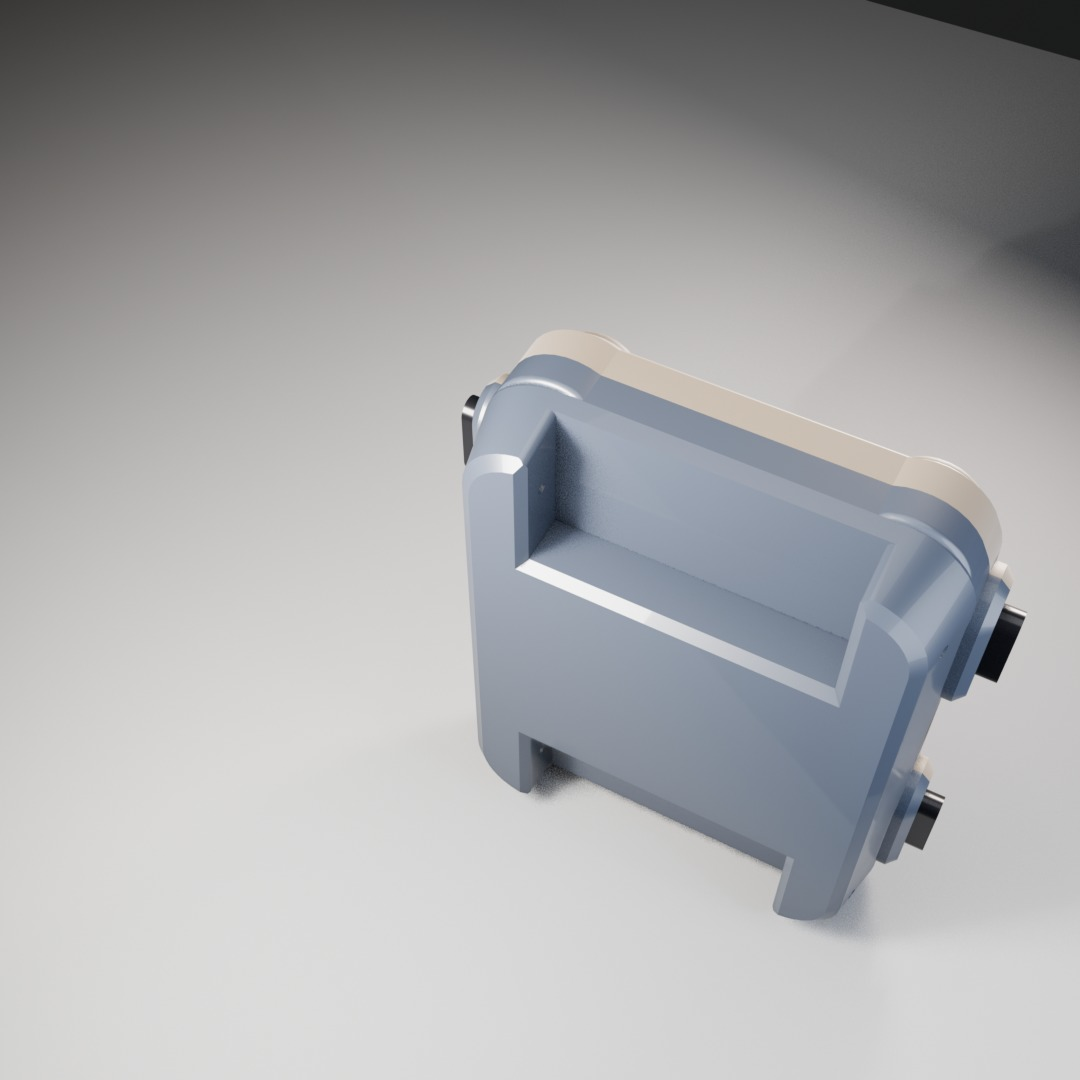
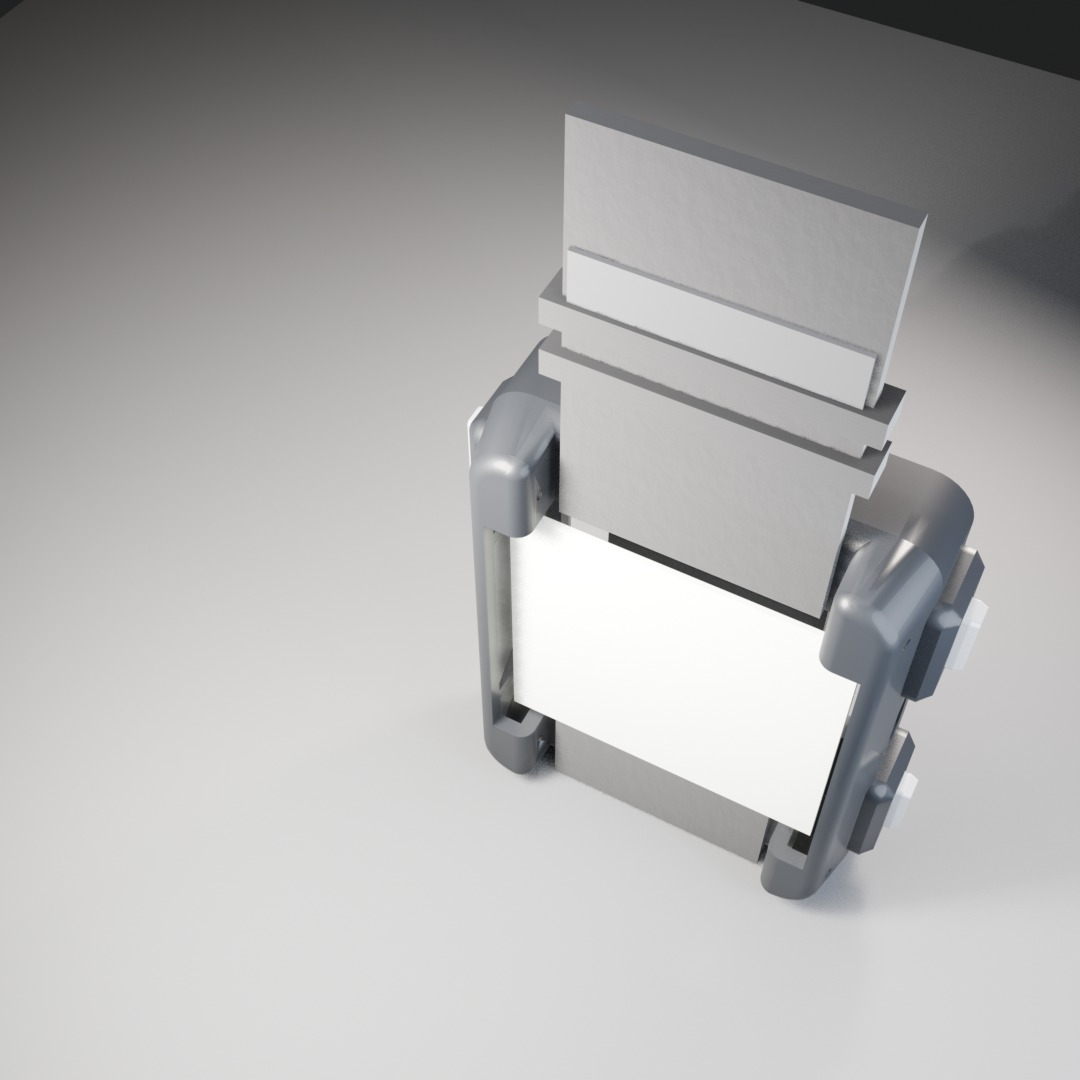
live: Watchy Yatari2 promote + restore gallery
Rams PASS / Steve Yellow: promote #26 _preview-sg-07/08/09/12 to live
featured stills and undo #25 under-construction hide. Ploopy untouched.

diff --git a/index.html b/index.html
@@ -478,9 +478,7 @@
             <h2>Open consumer CAD demos</h2>
             <p class="section-lede">
               Geometry from published open CAD sources — not brand-official photos, not fake logos.
-              <strong>Open headphones</strong> is the live qualified demo. The e-ink watch case slot is
-              <strong>施工中 / under construction</strong> and is not a pass-quality showcase.
-              No endorsement implied.
+              Labels are <strong>Demo · open CAD</strong> with source links. No endorsement implied.
             </p>
           </header>
 
@@ -514,28 +512,34 @@
             <p class="caption">Source + LICENSE in <code>media/demo-ploopy/</code>. No endorsement / logo use.</p>
           </article>
 
-          <article class="demo-block demo-block-held" id="demo-watchy">
+          <article class="demo-block" id="demo-watchy">
             <header class="demo-head">
-              <p class="frame-tag">施工中 / Under construction</p>
+              <p class="frame-tag">Demo · open CAD</p>
               <h3>Open e-ink watch case</h3>
               <p class="section-lede">
-                Not a qualified live demo. Current CAD reads as a thick brick shell, not a watch —
-                materials cannot save it. Held until a better assembly is ready.
-                MIT STEP <code>Armadillonium/Armadillonium_Model.step</code> from
-                <a href="https://github.com/sqfmi/watchy-cases" rel="noopener noreferrer">sqfmi/watchy-cases</a>.
+                MIT STEP <code>Yatari2/Yatari_2_Model.step</code> by SQFMI from
+                <a href="https://github.com/sqfmi/watchy-cases/tree/main/Yatari2" rel="noopener noreferrer">sqfmi/watchy-cases · Yatari2</a>.
                 Labeled as an <strong>open e-ink watch case</strong> — not an Apple Watch, and not using
                 “Watchy” as a shelf / trademark product name.
               </p>
             </header>
-            <div class="demo-held" role="status">
-              <p class="demo-held-kicker">施工中 · Under construction</p>
-              <p class="demo-held-title">No product stills on this page</p>
-              <p class="demo-held-copy">
-                Gallery withheld. This slot is not pass-quality. License and source stay on file
-                for when the CAD returns.
-              </p>
+            <div class="case-stage case-stage-gallery">
+              <figure class="frame frame-paper frame-featured" data-media="media/demo-watchy/stills/08-three-quarter.jpg">
+                <div class="frame-stage">
+                  <img src="./media/demo-watchy/stills/08-three-quarter.jpg" alt="Demo · open CAD e-ink watch case three-quarter still from STEP." width="1080" height="1080" loading="lazy" />
+                </div>
+                <figcaption>Open e-ink watch case — three-quarter <span class="frame-tag">Demo · open CAD</span></figcaption>
+              </figure>
+              <figure class="frame frame-paper" data-media="media/demo-watchy/stills/07-front.jpg"><div class="frame-stage"><img src="./media/demo-watchy/stills/07-front.jpg" alt="Demo · open CAD e-ink watch case front still." width="1080" height="1080" loading="lazy" /></div><figcaption>Front <span class="frame-tag">Demo · open CAD</span></figcaption></figure>
+              <figure class="frame frame-paper" data-media="media/demo-watchy/stills/09-top.jpg"><div class="frame-stage"><img src="./media/demo-watchy/stills/09-top.jpg" alt="Demo · open CAD e-ink watch case top still." width="1080" height="1080" loading="lazy" /></div><figcaption>Top <span class="frame-tag">Demo · open CAD</span></figcaption></figure>
+              <figure class="frame frame-paper" data-media="media/demo-watchy/stills/10-orbit-a.jpg"><div class="frame-stage"><img src="./media/demo-watchy/stills/10-orbit-a.jpg" alt="Demo · open CAD e-ink watch case side still." width="1080" height="1080" loading="lazy" /></div><figcaption>Orbit A <span class="frame-tag">Demo · open CAD</span></figcaption></figure>
+              <figure class="frame frame-paper" data-media="media/demo-watchy/stills/11-orbit-b.jpg"><div class="frame-stage"><img src="./media/demo-watchy/stills/11-orbit-b.jpg" alt="Demo · open CAD e-ink watch case rear-quarter still." width="1080" height="1080" loading="lazy" /></div><figcaption>Orbit B <span class="frame-tag">Demo · open CAD</span></figcaption></figure>
+              <figure class="frame frame-paper" data-media="media/demo-watchy/stills/12-detail.jpg"><div class="frame-stage"><img src="./media/demo-watchy/stills/12-detail.jpg" alt="Demo · open CAD e-ink watch case detail still." width="1080" height="1080" loading="lazy" /></div><figcaption>Detail <span class="frame-tag">Demo · open CAD</span></figcaption></figure>
+              <figure class="frame frame-paper" data-media="media/demo-watchy/stills/13-rear-three-quarter.jpg"><div class="frame-stage"><img src="./media/demo-watchy/stills/13-rear-three-quarter.jpg" alt="Demo · open CAD e-ink watch case rear three-quarter still." width="1080" height="1080" loading="lazy" /></div><figcaption>Rear ¾ <span class="frame-tag">Demo · open CAD</span></figcaption></figure>
+              <figure class="frame frame-paper" data-media="media/demo-watchy/stills/14-low-angle.jpg"><div class="frame-stage"><img src="./media/demo-watchy/stills/14-low-angle.jpg" alt="Demo · open CAD e-ink watch case low-angle still." width="1080" height="1080" loading="lazy" /></div><figcaption>Low angle <span class="frame-tag">Demo · open CAD</span></figcaption></figure>
+
             </div>
-            <p class="caption">Source + LICENSE in <code>media/demo-watchy/</code>. MIT does not grant trademarks. Assets kept in-repo; not showcased as a finished demo.</p>
+            <p class="caption">Source + LICENSE in <code>media/demo-watchy/</code>. MIT does not grant trademarks.</p>
           </article>
         </div>
       </section>

diff --git a/styles.css b/styles.css
@@ -667,45 +667,6 @@ dd {
 }
 .demo-head .frame-tag { display: inline-block; margin: 0; }
 
-.demo-block-held {
-  opacity: 0.82;
-}
-
-.demo-held {
-  border: 1px dashed var(--line-strong);
-  background: var(--bg-elev);
-  padding: 2.15rem 1.5rem;
-  min-height: 16rem;
-  display: grid;
-  align-content: center;
-  gap: 0.65rem;
-  max-width: 42rem;
-}
-
-.demo-held-kicker {
-  font-family: var(--font-mono);
-  font-size: 0.75rem;
-  letter-spacing: 0.06em;
-  text-transform: uppercase;
-  color: var(--steel);
-  margin: 0;
-}
-
-.demo-held-title {
-  font-family: var(--font-display);
-  font-weight: 500;
-  letter-spacing: -0.02em;
-  font-size: clamp(1.15rem, 1.5vw + 0.7rem, 1.5rem);
-  margin: 0;
-  color: var(--ink);
-}
-
-.demo-held-copy {
-  margin: 0;
-  color: var(--muted);
-  max-width: 38rem;
-}
-
 .case-stage-gallery { grid-template-columns: repeat(2, minmax(0, 1fr)); }
 @media (min-width: 900px) {
   .case-stage-gallery { grid-template-columns: repeat(4, minmax(0, 1fr)); }

diff --git a/MEDIA.md b/MEDIA.md
@@ -73,8 +73,8 @@ If the site moves to a custom domain, update the absolute URLs in `index.html` t
 | Pack | Path | License | Landing | Hard line |
 | --- | --- | --- | --- | --- |
 | Open headphones | `media/demo-ploopy/` | CERN-OHL-S-2.0 | **On the page** — live qualified demo | No endorsement / fake brand / logo |
-| Open e-ink watch case | `media/demo-watchy/` | MIT (SQFMI Yatari2) | **Held / 施工中** — Yatari2 remodel previews in `_preview-sg-*`; live stills not showcased until Steve PASS | Not Apple Watch; not “Watchy” shelf name |
+| Open e-ink watch case | `media/demo-watchy/` | MIT (SQFMI Yatari2) | **On the page** — live again after Rams PASS / Steve Yellow; Yatari2 demo assemble | Not Apple Watch; not “Watchy” shelf name |
 
-Primary source is SQFMI Yatari2 (`source/Yatari_2_Model.step` + demo assemble GLB). Armadillonium archived under `source/archive-armadillonium/`. Soft-grey remodel previews: `_preview-sg-07/08/09/12`. Do not wire stills back onto the landing until Steve PASS.
+Primary source is SQFMI Yatari2 (`source/Yatari_2_Model.step` + demo assemble GLB). Armadillonium archived under `source/archive-armadillonium/`. Live featured stills `07/08/09/12` are the promoted Yatari2 frames; `_preview-sg-*` copies remain. Still **Demo · open CAD** — no trademark claim.
 
 Pipeline: `scripts/render_stills_pipeline.py` (`--glb`/`--step`/`--stl`/`--obj`). STEP → GLB via `scripts/step_to_glb.py` when Blender lacks a CAD importer.

diff --git a/media/demo-watchy/README.md b/media/demo-watchy/README.md
@@ -5,8 +5,9 @@
 | Source | [sqfmi/watchy-cases](https://github.com/sqfmi/watchy-cases) · `Yatari2/` (`Yatari_2_Model.step` + Top/Bottom/Button STLs) |
 | License | MIT (`source/LICENSE-MIT.txt` / `LICENSE-MIT-Yatari2.txt`) — © SQFMI |
 | Page label | **Demo · open CAD** — open e-ink watch case |
+| Landing | **Live** — Yatari2 demo assemble; Rams PASS / Steve Yellow. No trademark claim. |
 | Prior | Armadillonium archived under `source/archive-armadillonium/` (not featured) |
 
 Hard line: not Apple Watch; do not use “Watchy” as shelf / trademark product name.
 
-Demo assembly (Blender): recessed e-ink screen insert + soft strap extras via `scripts/watchy_assemble_extras.py` (Rams remodel DoD). Soft-grey previews land as `_preview-sg-*` until Steve PASS.
+Demo assembly (Blender): recessed e-ink screen insert + soft strap extras via `scripts/watchy_assemble_extras.py` (Rams remodel DoD). Featured stills `07/08/09/12` are the promoted Yatari2 frames; `_preview-sg-*` copies remain.

diff --git a/README.md b/README.md
@@ -48,7 +48,7 @@ Primary CTAs (hero, sticky header, footer) open `mailto:jexlau.dev@gmail.com?sub
 
 See [DESIGN.md](./DESIGN.md) for IA and the N=5 / ghost-perspective / free test still / no public price assumptions.
 
-See [MEDIA.md](./MEDIA.md) for the `media/` drop-in map. Case #1 ghost, three white-background stills, two studio stills, the orbit clip, and `media/og/share.jpg` are on the page. The live Demo · open CAD showcase is open headphones; the e-ink watch case pack is under construction and is not shown as a qualified demo. Do not add stock or fake 3D.
+See [MEDIA.md](./MEDIA.md) for the `media/` drop-in map. Case #1 ghost, three white-background stills, two studio stills, the orbit clip, and `media/og/share.jpg` are on the page. Demo · open CAD showcases open headphones and the open e-ink watch case (Yatari2 demo assemble; no trademark claim). Do not add stock or fake 3D.
 
 ## Case #1 multi-angle stills
 

diff --git a/assets/README.md b/assets/README.md
@@ -3,6 +3,6 @@
 | Pack | Upstream | License | Files |
 | --- | --- | --- | --- |
 | ploopy/ | https://github.com/ploopyco/headphones | CERN-OHL-S-2.0 | STEP + tessellated GLB (STL omitted — >50MB) |
-| watchy/ | https://github.com/sqfmi/watchy-cases Armadillonium | MIT | STEP + STL + GLB |
+| watchy/ | https://github.com/sqfmi/watchy-cases Yatari2 | MIT | STEP + STL + GLB |
 
 GLB produced via `scripts/step_to_glb.py` (cascadio) for Blender import.

diff --git a/reviews/demo-watchy-remodel-2026-09-06/NOTES.md b/reviews/demo-watchy-remodel-2026-09-06/NOTES.md
@@ -46,7 +46,7 @@ Page caption stays **Demo · open CAD** / open e-ink watch case (not a shelf tra
 
 ## Preview policy
 
-Soft-grey frames land as `_preview-sg-*` only. **Do not promote live** until Steve Yellow / Rams visual pass. Do not undo #25 hide.
+Soft-grey frames landed as `_preview-sg-*` until Rams PASS / Steve Yellow. **Promoted** to live `07/08/09/12`; landing gallery restored (undo #25 hide). `_preview-sg-*` copies kept.
 
 ## Reproduce
 
